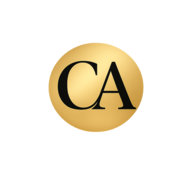
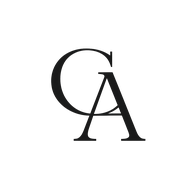
Add files via upload

Changed region(s): [[0.25, 0.2188, 0.7812, 0.75]]

diff --git a/LEEME.md b/LEEME.md
@@ -145,3 +145,9 @@ La plantilla `plantillas/tarjeta-blog.html` ya está preparada con este formato.
   - `apple-touch-icon.png`
   - `android-chrome-192x192.png`
 - El favicon ya está enlazado en `index.html`, `blog/index.html` y `blog/corte-suministros-vivienda-ocupada.html`.
+
+## Favicon actualizado en intel16.03
+
+El favicon anterior se ha sustituido por el nuevo monograma negro «CA».
+Las rutas HTML no han cambiado, por lo que no es necesario modificar
+ninguna página individual.
